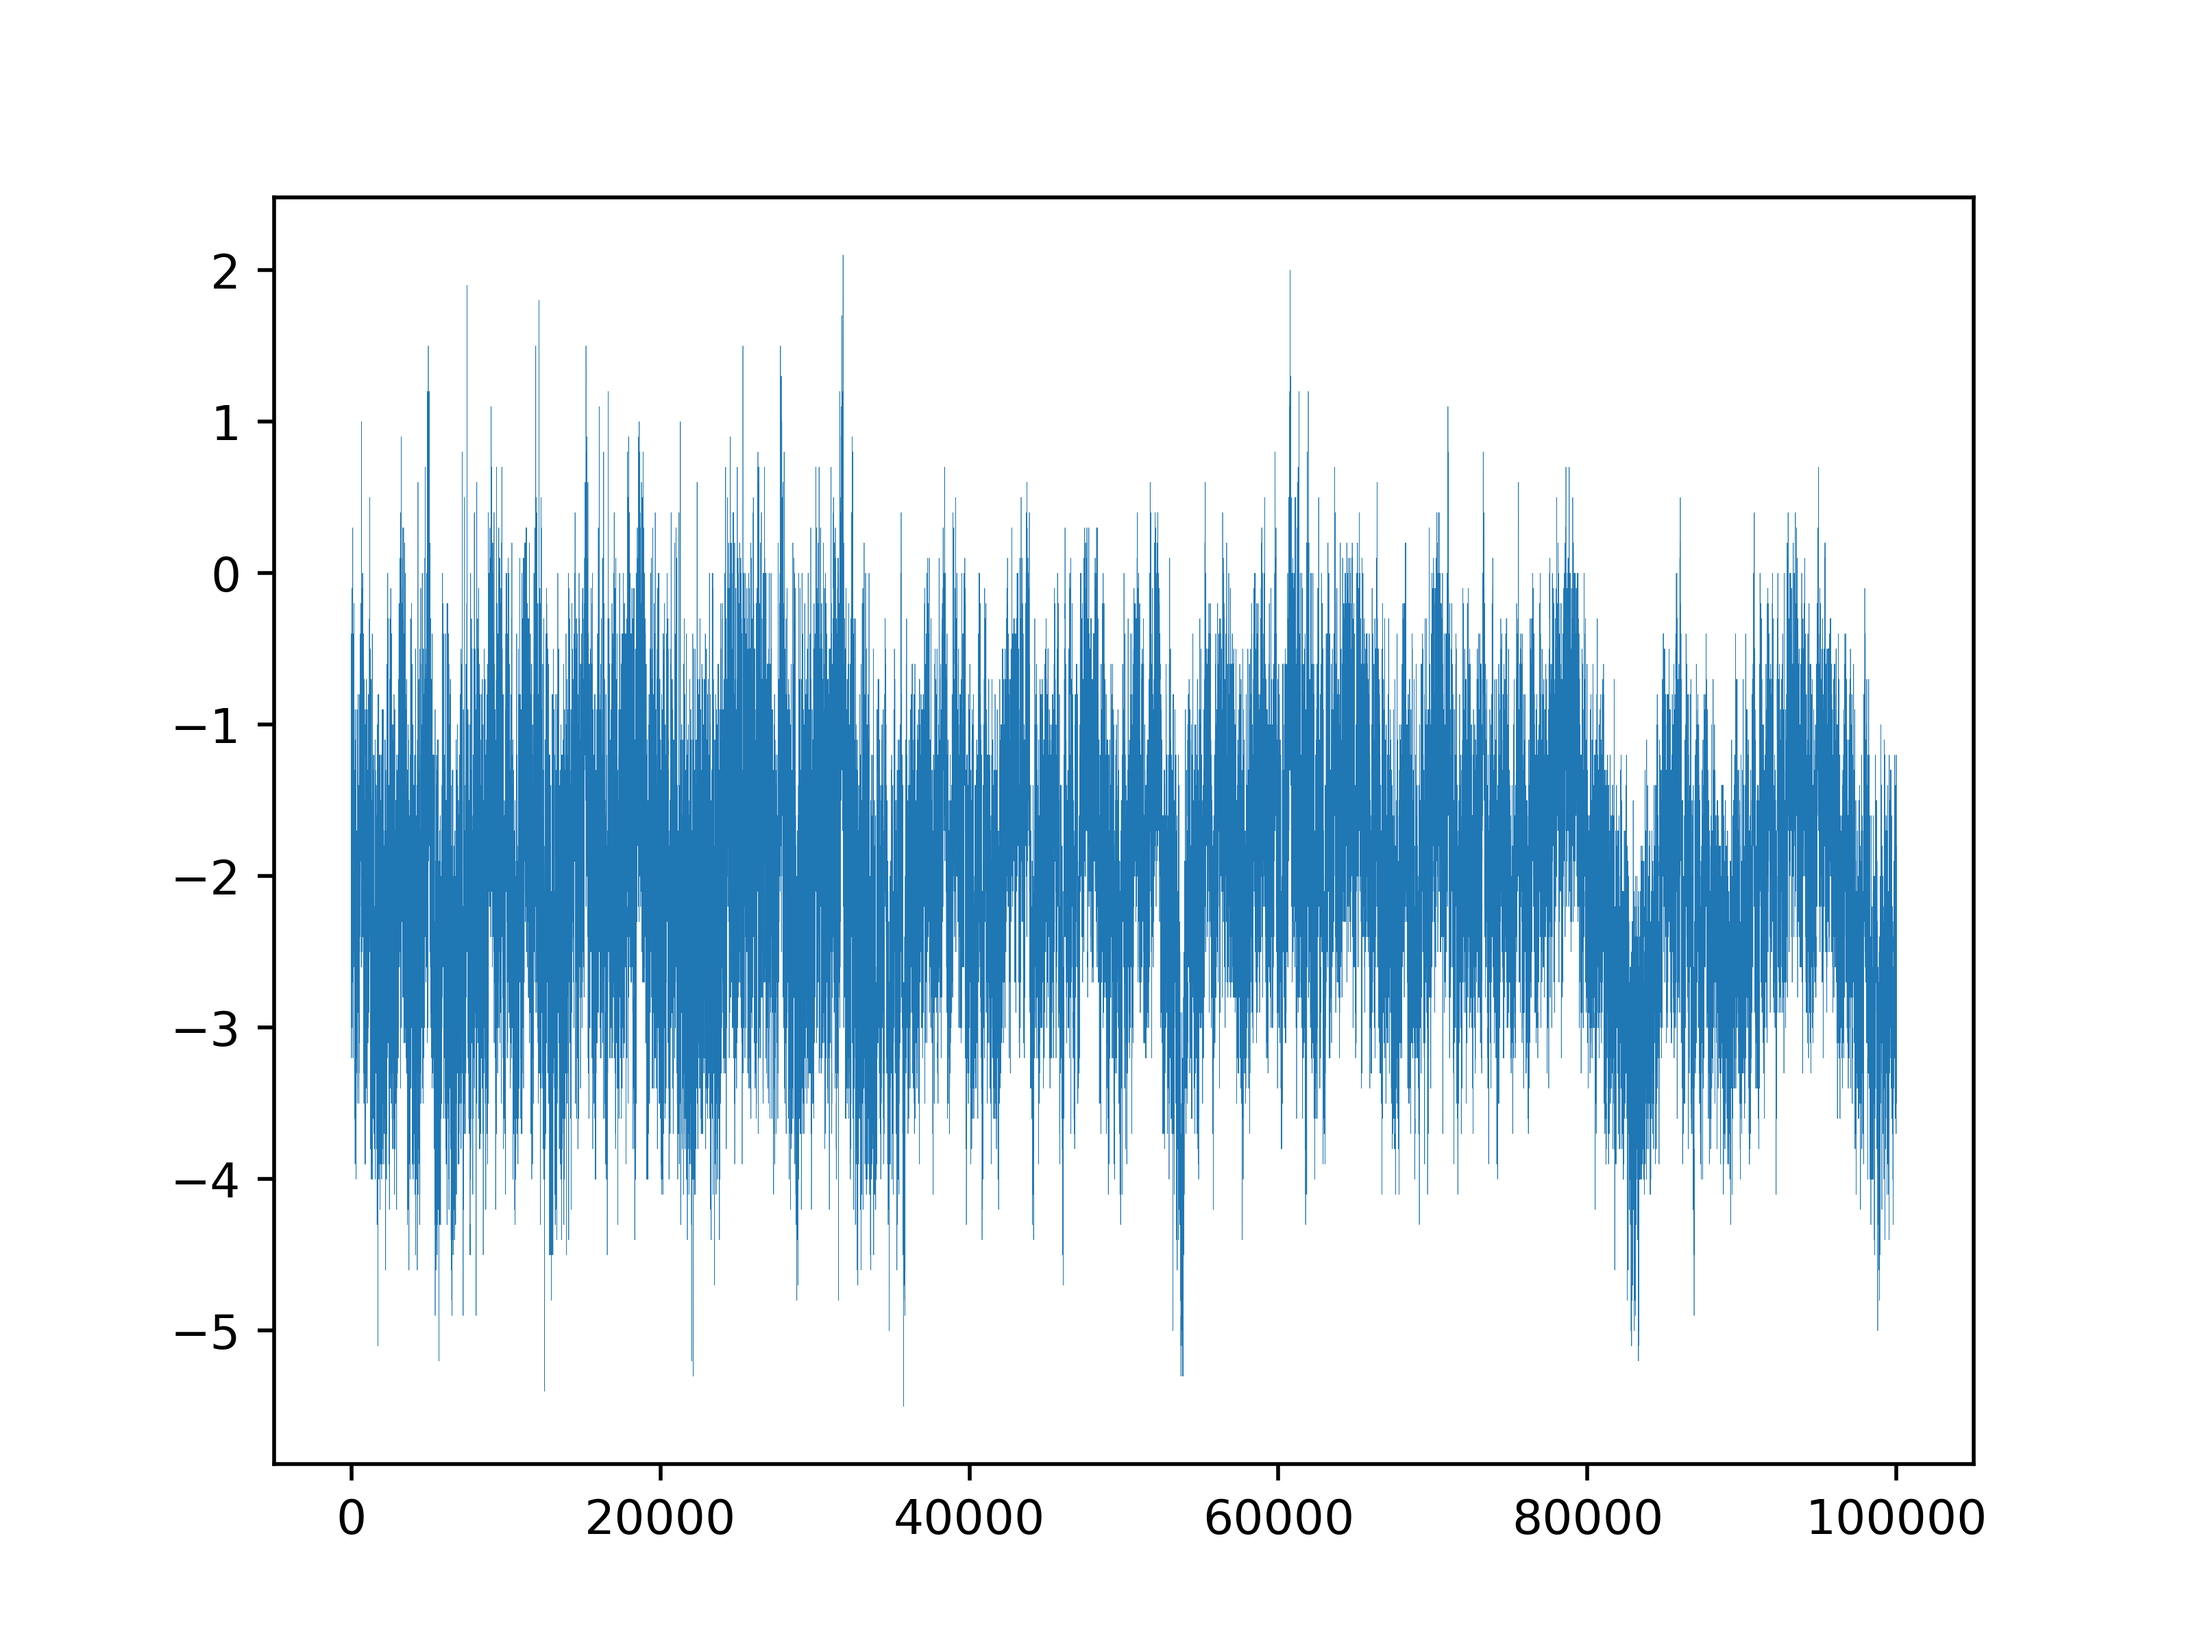
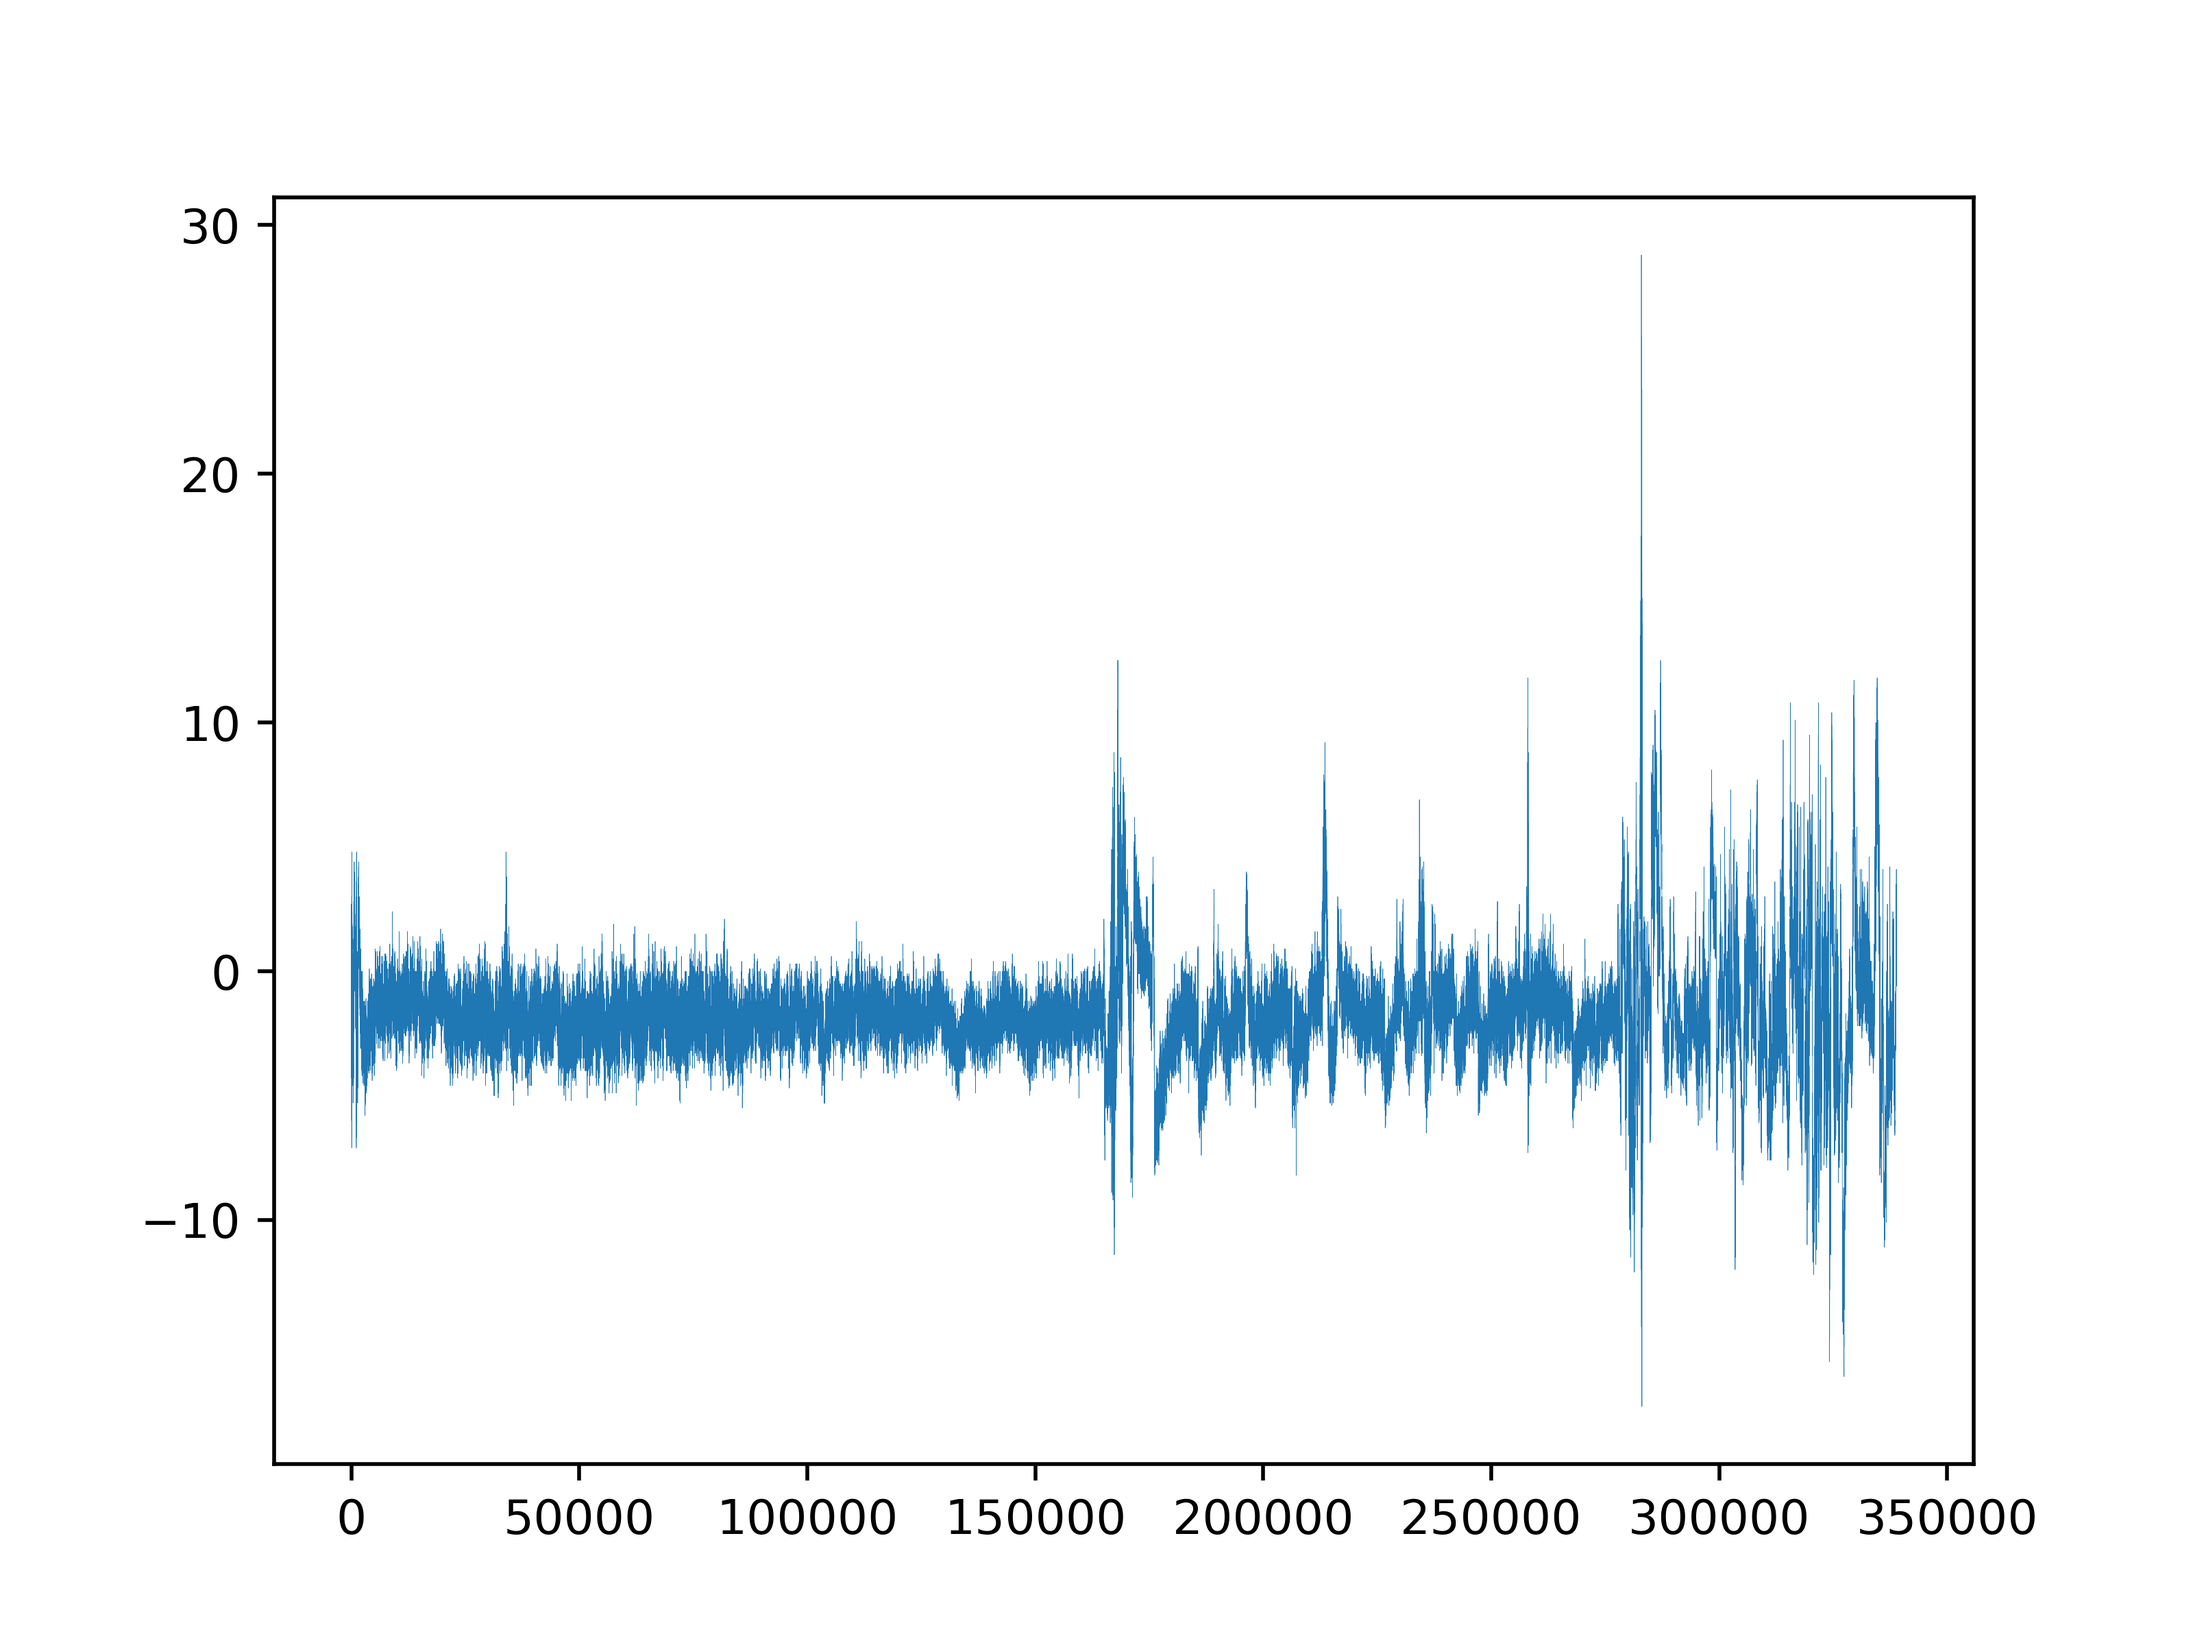
3dic

diff --git a/ProgramaciónAvanzada2018/graficacion3.py b/ProgramaciónAvanzada2018/graficacion3.py
@@ -1,0 +1,39 @@
+__author__ = 'fhca'
+
+import matplotlib.pyplot as plt
+
+import numpy as np
+
+
+def leer_archivo():
+    with open(r"MMAS550429VIGREP_F3.txt") as f:
+        lista = f.readlines()
+    ys = [float(elemento) for elemento in lista]
+    return np.array(ys)
+
+
+def graficar(ys):
+    xs = range(len(ys))
+    print(len(ys))
+    plt.figure()
+    plt.plot(xs, ys, linewidth=.1)
+    #plt.savefig("F3.png", dpi=500)
+
+
+ys = leer_archivo()
+
+print("Num de valores mayores que 1:", (ys > 1).sum())
+print("Num de valores menores que -5:", (ys < -5).sum())
+
+ys[ys > 1] = 1.0
+ys[ys < -5] = -5.0
+
+print("Num de valores mayores que 1:", (ys > 1).sum())
+print("Num de valores menores que -5:", (ys < -5).sum())
+
+
+# ys = ys[50000:150000]  # subintervalo
+graficar(ys)
+plt.ylim((-20,30))
+# plt.hist(ys, 100)  # 100 bins
+plt.show()

diff --git a/ProgramaciónAvanzada2018/graficacion2.py b/ProgramaciónAvanzada2018/graficacion2.py
@@ -20,8 +20,8 @@ def graficar(ys):
 
 
 ys = leer_archivo()
-#ys = ys[50000:150000] subintervalo
-#graficar(ys)
+ys = ys[50000:150000]  # subintervalo
+graficar(ys)
 
-plt.hist(ys, 100)  # 100 bins
+#plt.hist(ys, 100)  # 100 bins
 plt.show()
